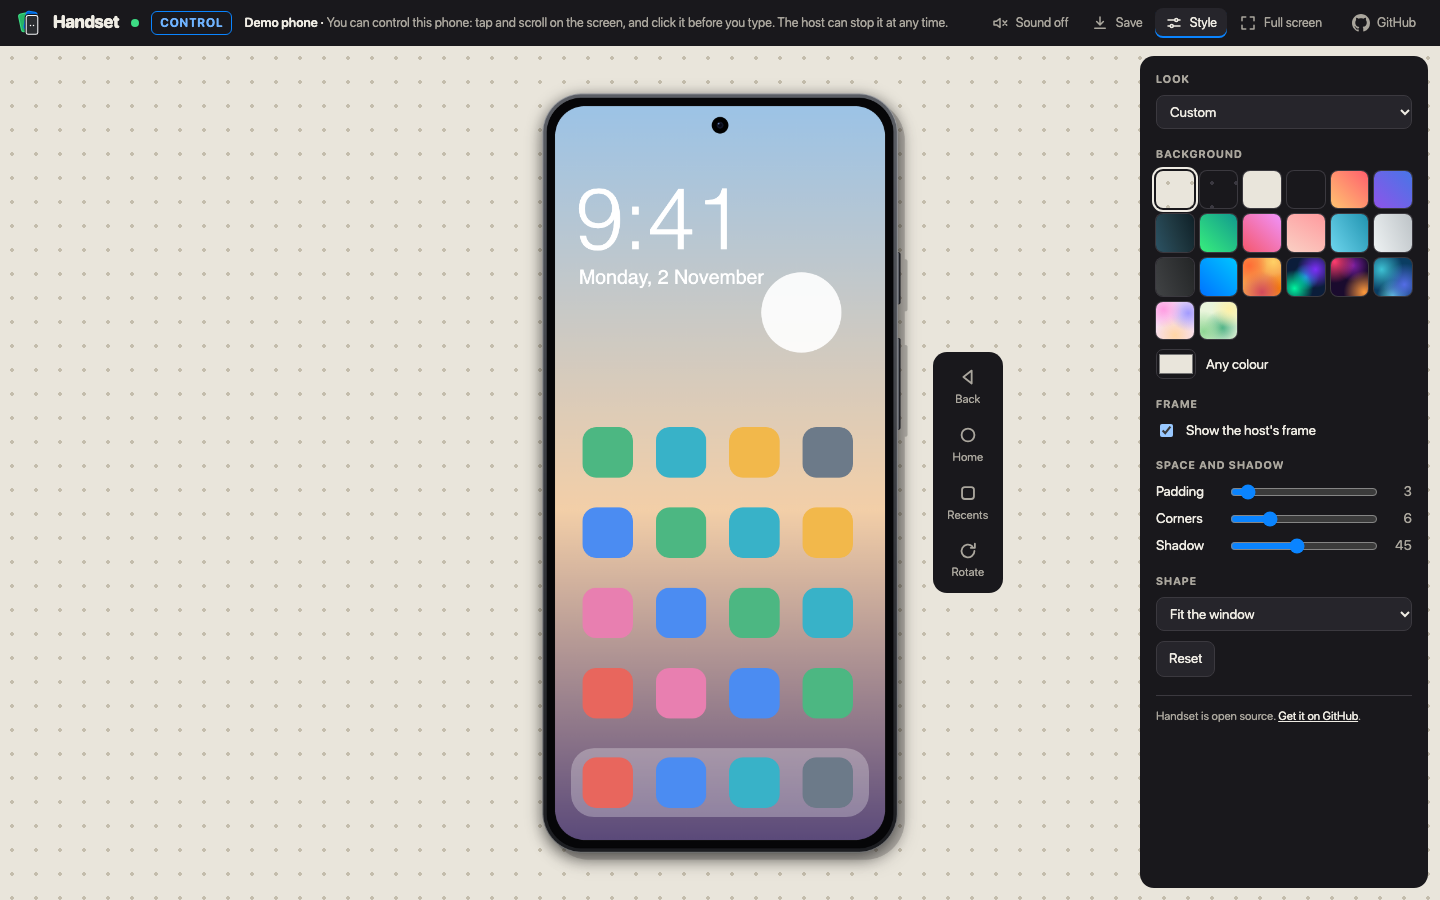
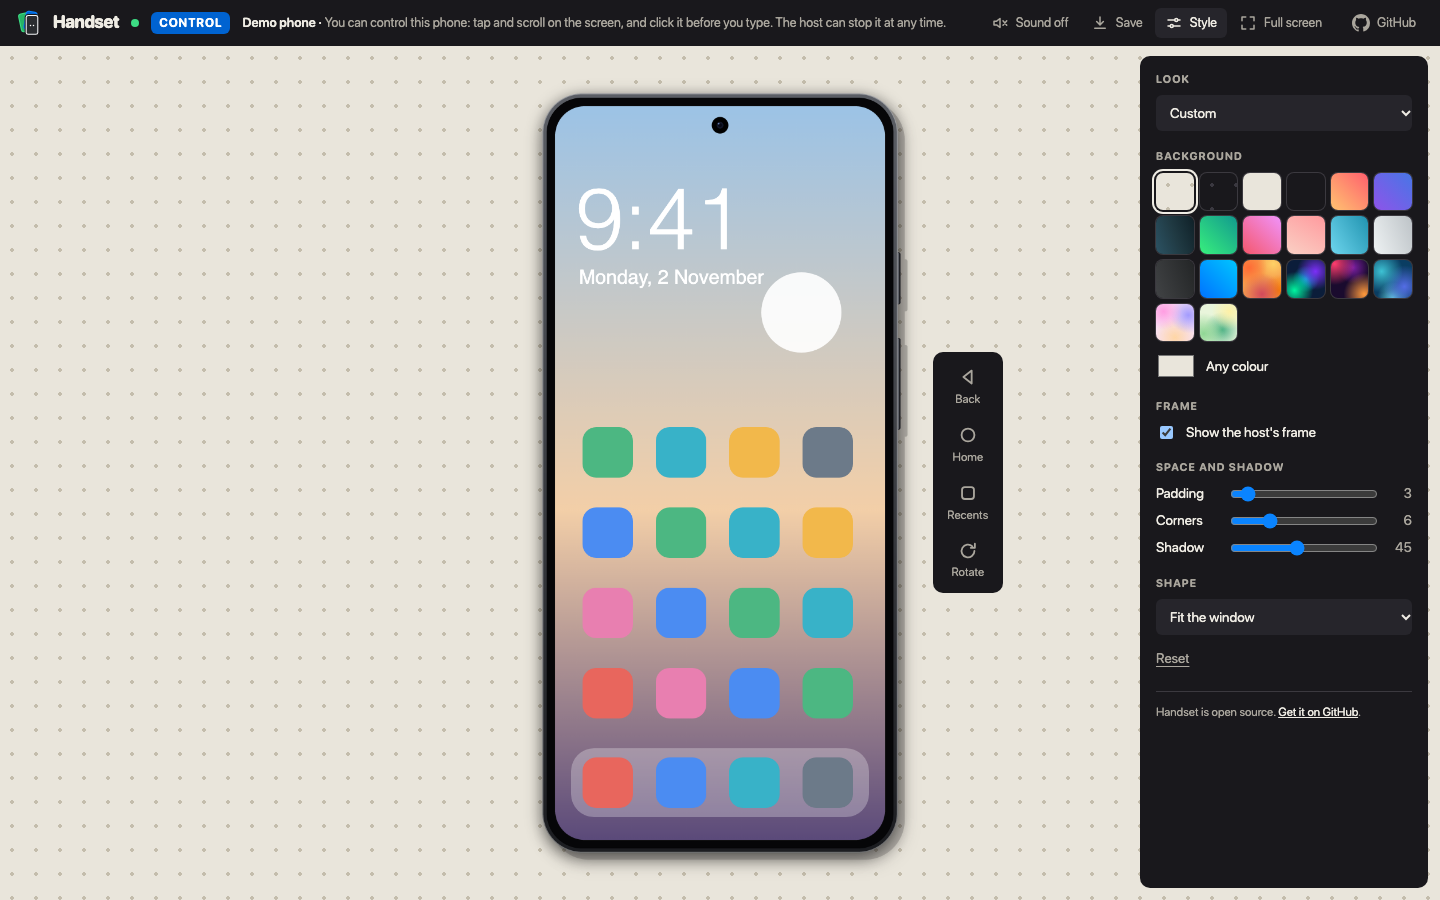
style(app): flatten the Share page's buttons and fields
The Save list is now plain rows with a hairline between them and the format on
the right, not bordered buttons. Fields are flat fills, Reset is a text link,
the pressed tool is a filled background without a coloured underline, and the
View only / Control badge is a solid tag. One small radius family throughout.
The pictures in the guide are retaken.

Part of #134.

diff --git a/app/assets/share-viewer.html b/app/assets/share-viewer.html
@@ -35,10 +35,10 @@
   #brand b { font-size: 17px; font-weight: 800; letter-spacing: -0.02em; }
   #live { width: 8px; height: 8px; border-radius: 50%; background: var(--muted); flex: none; }
   #live.on { background: var(--live); }
-  #mode { flex: none; font-size: 12px; font-weight: 700; letter-spacing: 0.08em; text-transform: uppercase; padding: 3px 8px; border-radius: 6px; border: 1px solid var(--line); color: var(--muted); }
-  #mode.control { border-color: var(--blue); color: #6fb3ff; }
+  #mode { flex: none; font-size: 12px; font-weight: 700; letter-spacing: 0.08em; text-transform: uppercase; padding: 3px 8px; border-radius: 6px; background: var(--ink-2); color: var(--muted); }
+  #mode.control { background: #0063d1; color: #fff; }
   #mode[hidden] { display: none; }
-  #hint { position: fixed; left: 50%; bottom: 24px; transform: translateX(-50%); max-width: calc(100vw - 32px); padding: 9px 16px; border-radius: 10px; background: var(--ink); color: var(--text); text-align: center; opacity: 0; transition: opacity 0.2s ease-out; pointer-events: none; }
+  #hint { position: fixed; left: 50%; bottom: 24px; transform: translateX(-50%); max-width: calc(100vw - 32px); padding: 9px 16px; border-radius: 8px; background: var(--ink); color: var(--text); text-align: center; opacity: 0; transition: opacity 0.2s ease-out; pointer-events: none; }
   #hint.show { opacity: 1; }
   #note { color: var(--muted); font-size: 13px; min-width: 0; display: -webkit-box; -webkit-line-clamp: 2; -webkit-box-orient: vertical; overflow: hidden; }
   #note strong { color: var(--text); font-weight: 600; }
@@ -50,43 +50,45 @@
 
   /* the page's own tools live in the header; the phone's keys sit beside the phone, like Handset's toolbar */
   #tools { display: flex; align-items: center; gap: 2px; margin-left: auto; flex: none; }
-  .htool { display: flex; align-items: center; gap: 7px; padding: 6px 10px; background: none; border: 0; border-radius: 8px; color: var(--muted); cursor: pointer; font-size: 13px; }
+  .htool { display: flex; align-items: center; gap: 7px; padding: 6px 10px; background: none; border: 0; border-radius: 6px; color: var(--muted); cursor: pointer; font-size: 13px; }
   .htool svg { width: 18px; height: 18px; flex: none; stroke: currentColor; fill: none; stroke-width: 2; stroke-linecap: round; stroke-linejoin: round; }
   .htool:hover { background: var(--ink-2); color: var(--text); }
-  .htool[aria-pressed="true"] { color: var(--text); background: var(--ink-2); box-shadow: inset 0 -2px 0 var(--blue); }
+  .htool[aria-pressed="true"] { color: var(--text); background: var(--ink-2); }
   .htool[hidden] { display: none; }
 
-  #keys { position: fixed; display: none; flex-direction: column; gap: 2px; padding: 6px; background: var(--ink); border-radius: 14px; }
+  #keys { position: fixed; display: none; flex-direction: column; gap: 2px; padding: 6px; background: var(--ink); border-radius: 10px; }
   #keys.on { display: flex; }
-  .key { width: 58px; padding: 8px 0 6px; display: grid; justify-items: center; gap: 3px; background: none; border: 0; border-radius: 9px; cursor: pointer; font-size: 12px; color: var(--muted); }
+  .key { width: 58px; padding: 8px 0 6px; display: grid; justify-items: center; gap: 3px; background: none; border: 0; border-radius: 6px; cursor: pointer; font-size: 12px; color: var(--muted); }
   .key svg { width: 22px; height: 22px; stroke: currentColor; fill: none; stroke-width: 2; stroke-linecap: round; stroke-linejoin: round; }
   .key:hover { background: var(--ink-2); color: var(--text); }
   .key:active { background: var(--line); color: var(--text); }
 
-  .panel { position: fixed; top: calc(var(--bar) + 10px); right: 12px; bottom: 12px; width: 288px; overflow: auto; background: var(--ink); border-radius: 14px; padding: 16px; display: none; }
+  .panel { position: fixed; top: calc(var(--bar) + 10px); right: 12px; bottom: 12px; width: 288px; overflow: auto; background: var(--ink); border-radius: 10px; padding: 16px; display: none; }
   .panel.open { display: block; }
   .panel h2 { font-size: 11px; font-weight: 700; text-transform: uppercase; letter-spacing: 0.1em; color: var(--muted); margin: 18px 0 8px; }
   .panel h2:first-child { margin-top: 0; }
   .panel label { display: grid; grid-template-columns: 64px 1fr 28px; gap: 8px; align-items: center; margin: 7px 0; }
   .panel label output { text-align: right; color: var(--muted); font-variant-numeric: tabular-nums; }
   .panel label.check { display: flex; gap: 10px; }
-  .panel select { width: 100%; background: var(--ink-2); border: 1px solid var(--line); border-radius: 8px; padding: 7px 9px; }
+  .panel select { width: 100%; background: var(--ink-2); border: 0; border-radius: 6px; padding: 9px 10px; }
   .panel input[type=range] { width: 100%; accent-color: var(--blue); }
   .swatches { display: grid; grid-template-columns: repeat(6, 1fr); gap: 6px; }
   .swatch { aspect-ratio: 1; border-radius: 7px; border: 0; padding: 0; cursor: pointer; box-shadow: 0 0 0 1px var(--line); }
   .swatch[aria-pressed="true"] { box-shadow: 0 0 0 2px var(--ink), 0 0 0 4px var(--text); }
   #savebox { bottom: auto; }
   .hint { color: var(--muted); font-size: 12px; margin: 0 0 12px; }
-  .saves { display: grid; gap: 8px; }
-  .saves button { text-align: left; background: var(--ink-2); border: 1px solid var(--line); border-radius: 9px; padding: 10px 12px; cursor: pointer; }
-  .saves button:hover { border-color: var(--muted); }
-  .saves button:disabled { opacity: 0.5; cursor: default; }
+  /* a plain list: one line each, a hairline between, the format on the right */
+  .saves { display: grid; margin: 0 -8px; }
+  .saves button { display: flex; justify-content: space-between; align-items: baseline; gap: 12px; width: 100%; text-align: left; background: none; border: 0; border-radius: 6px; padding: 12px 8px; cursor: pointer; }
+  .saves button + button { box-shadow: inset 0 1px 0 var(--line); }
+  .saves button:hover { background: var(--ink-2); }
+  .saves button span { color: var(--muted); font-size: 12px; }
   .row { display: flex; gap: 10px; align-items: center; margin-top: 10px; }
-  .row input[type=color] { width: 40px; height: 30px; padding: 0; border: 1px solid var(--line); border-radius: 7px; background: none; cursor: pointer; }
-  .row button { background: var(--ink-2); border: 1px solid var(--line); border-radius: 8px; padding: 7px 12px; cursor: pointer; }
-  .row button:hover { border-color: var(--muted); }
+  .row input[type=color] { width: 40px; height: 30px; padding: 0; border: 0; border-radius: 6px; background: none; cursor: pointer; }
+  .row button { background: none; border: 0; padding: 4px 0; color: var(--muted); text-decoration: underline; text-underline-offset: 3px; cursor: pointer; }
+  .row button:hover { color: var(--text); }
 
-  #status { position: fixed; left: 50%; top: 50%; transform: translate(-50%, -50%); max-width: calc(100vw - 32px); padding: 12px 18px; border-radius: 12px; background: var(--ink); color: var(--text); text-align: center; pointer-events: none; }
+  #status { position: fixed; left: 50%; top: 50%; transform: translate(-50%, -50%); max-width: calc(100vw - 32px); padding: 12px 18px; border-radius: 8px; background: var(--ink); color: var(--text); text-align: center; pointer-events: none; }
 
   /* a narrow or upright window (a phone, usually): the header keeps icons only and wraps the note, the keys go along the bottom */
   @media (max-width: 640px), (max-aspect-ratio: 1/1) {
@@ -167,9 +169,9 @@
   <h2>Save a picture</h2>
   <p class="hint">Saves what you see now, in the look you chose, at the phone's own resolution (at least 1600 pixels on the long side).</p>
   <div class="saves">
-    <button data-save="png">PNG</button>
-    <button data-save="png-clear">PNG, no background</button>
-    <button data-save="jpeg">JPEG</button>
+    <button data-save="png">PNG <span>sharp, with the background</span></button>
+    <button data-save="png-clear">Transparent PNG <span>no background</span></button>
+    <button data-save="jpeg">JPEG <span>smaller file</span></button>
   </div>
 </aside>
 

diff --git a/docs/share.md b/docs/share.md
@@ -35,6 +35,8 @@ viewers or you see. **Full screen** hides everything but the page.
 
 <p><img src="images/share-page-style.png" alt="The same page with the Style panel open" width="760"></p>
 
+<p><img src="images/share-page-save.png" alt="The Save list: PNG, transparent PNG and JPEG" width="760"></p>
+
 **Save** downloads what the viewer sees as a PNG, a PNG with a transparent background, or a JPEG, at the phone's own
 resolution (at least 1600 pixels on the long side). Anyone who can watch can save a picture, as they could with a
 screenshot, so only allow people you would trust with one.
